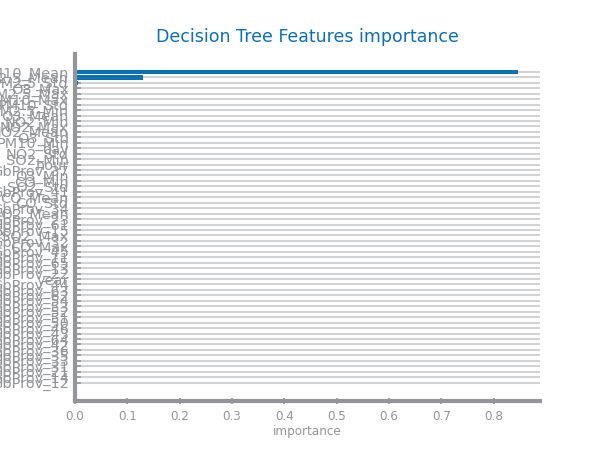
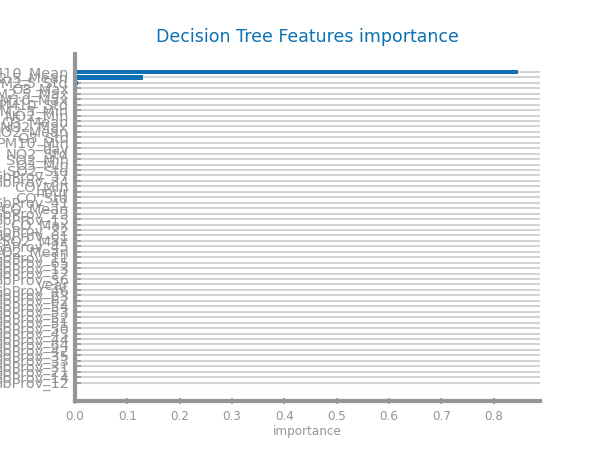
Random forests update

Changed region(s): [[0.0, 0.3422, 0.12, 0.8089], [0.0, 0.2489, 0.09, 0.28]]

diff --git a/lab06_random_forests_and_feature_selection/set1_random_forests.py b/lab06_random_forests_and_feature_selection/set1_random_forests.py
@@ -1,0 +1,79 @@
+from numpy import ndarray
+from pandas import DataFrame, read_csv, unique
+from matplotlib.pyplot import figure, subplots, savefig, show
+from sklearn.ensemble import RandomForestClassifier
+from ds_charts import plot_evaluation_results, multiple_line_chart, horizontal_bar_chart, HEIGHT
+from sklearn.metrics import accuracy_score, precision_score
+
+# change sample in percentage here
+sample = 0.05
+
+file_tag = 'set1'
+filename = 'lab03_knn_and_scaling/ew_data/set1'
+target = 'PERSON_INJURY'
+
+train: DataFrame = read_csv(f'lab04_naive_bayes_and_balancing/ew_data/set1_smote_scaled.csv')
+train = train.sample(frac=sample, replace=True, random_state=1)
+trnY: ndarray = train.pop(target).values
+trnX: ndarray = train.values
+labels = unique(trnY)
+labels.sort()
+
+test: DataFrame = read_csv(f'{filename}_test_scaled.csv')
+tstY: ndarray = test.pop(target).values
+tstX: ndarray = test.values
+
+n_estimators = [5, 10, 25, 50, 75, 100, 150, 200, 250, 300]
+max_depths = [5, 10, 25, 30]
+max_features = [.1, .3, .5, .7, .9, 1]
+best = ('', 0, 0)
+last_best = 0
+best_model = None
+
+cols = len(max_depths)
+figure()
+fig, axs = subplots(1, cols, figsize=(cols*HEIGHT, HEIGHT), squeeze=False)
+for k in range(len(max_depths)):
+    d = max_depths[k]
+    values = {}
+    for f in max_features:
+        yvalues = []
+        for n in n_estimators:
+            rf = RandomForestClassifier(n_estimators=n, max_depth=d, max_features=f)
+            rf.fit(trnX, trnY)
+            prdY = rf.predict(tstX)
+            yvalues.append(accuracy_score(tstY, prdY))
+            if yvalues[-1] > last_best:
+                best = (d, f, n)
+                last_best = yvalues[-1]
+                best_model = rf
+
+        values[f] = yvalues
+    multiple_line_chart(n_estimators, values, ax=axs[0, k], title=f'Random Forests with max_depth={d}',
+                           xlabel='nr estimators', ylabel='accuracy', percentage=True)
+savefig(f'lab06_random_forests_and_feature_selection/images/{file_tag}/{file_tag}_rf_study_accuracy.png')
+show()
+print('Best results with depth=%d, %1.2f features and %d estimators, with accuracy=%1.2f'%(best[0], best[1], best[2], last_best))
+
+
+prd_trn = best_model.predict(trnX)
+prd_tst = best_model.predict(tstX)
+plot_evaluation_results(labels, trnY, prd_trn, tstY, prd_tst)
+savefig(f'lab06_random_forests_and_feature_selection/images/{file_tag}/{file_tag}_rf_best.png')
+show()
+
+from numpy import std, argsort
+
+variables = train.columns
+importances = best_model.feature_importances_
+stdevs = std([tree.feature_importances_ for tree in best_model.estimators_], axis=0)
+indices = argsort(importances)[::-1]
+elems = []
+for f in range(len(variables)):
+    elems += [variables[indices[f]]]
+    print(f'{f+1}. feature {elems[f]} ({importances[indices[f]]})')
+
+figure()
+horizontal_bar_chart(elems, importances[indices], stdevs[indices], title='Random Forest Features importance', xlabel='importance', ylabel='variables')
+savefig(f'lab06_random_forests_and_feature_selection/images/{file_tag}/{file_tag}_rf_ranking.png')
+show()

diff --git a/lab06_random_forests_and_feature_selection/set2_random_forests.py b/lab06_random_forests_and_feature_selection/set2_random_forests.py
@@ -1,0 +1,79 @@
+from numpy import ndarray
+from pandas import DataFrame, read_csv, unique
+from matplotlib.pyplot import figure, subplots, savefig, show
+from sklearn.ensemble import RandomForestClassifier
+from ds_charts import plot_evaluation_results, multiple_line_chart, horizontal_bar_chart, HEIGHT
+from sklearn.metrics import accuracy_score, precision_score
+
+# change sample in percentage here
+sample = 0.05
+
+file_tag = 'set2'
+filename = 'lab03_knn_and_scaling/ew_data/set2'
+target = 'ALARM'
+
+train: DataFrame = read_csv(f'lab04_naive_bayes_and_balancing/ew_data/set2_smote_scaled.csv')
+train = train.sample(frac=sample, replace=True, random_state=1)
+trnY: ndarray = train.pop(target).values
+trnX: ndarray = train.values
+labels = unique(trnY)
+labels.sort()
+
+test: DataFrame = read_csv(f'{filename}_test_scaled.csv')
+tstY: ndarray = test.pop(target).values
+tstX: ndarray = test.values
+
+n_estimators = [5, 10, 25, 50, 75, 100, 150, 200, 250, 300]
+max_depths = [5, 10, 25]
+max_features = [.1, .3, .5, .7, .9, 1]
+best = ('', 0, 0)
+last_best = 0
+best_model = None
+
+cols = len(max_depths)
+figure()
+fig, axs = subplots(1, cols, figsize=(cols*HEIGHT, HEIGHT), squeeze=False)
+for k in range(len(max_depths)):
+    d = max_depths[k]
+    values = {}
+    for f in max_features:
+        yvalues = []
+        for n in n_estimators:
+            rf = RandomForestClassifier(n_estimators=n, max_depth=d, max_features=f)
+            rf.fit(trnX, trnY)
+            prdY = rf.predict(tstX)
+            yvalues.append(accuracy_score(tstY, prdY))
+            if yvalues[-1] > last_best:
+                best = (d, f, n)
+                last_best = yvalues[-1]
+                best_model = rf
+
+        values[f] = yvalues
+    multiple_line_chart(n_estimators, values, ax=axs[0, k], title=f'Random Forests with max_depth={d}',
+                           xlabel='nr estimators', ylabel='accuracy', percentage=True)
+savefig(f'lab06_random_forests_and_feature_selection/images/{file_tag}/{file_tag}_rf_study_accuracy.png')
+show()
+print('Best results with depth=%d, %1.2f features and %d estimators, with accuracy=%1.2f'%(best[0], best[1], best[2], last_best))
+
+
+prd_trn = best_model.predict(trnX)
+prd_tst = best_model.predict(tstX)
+plot_evaluation_results(labels, trnY, prd_trn, tstY, prd_tst)
+savefig(f'lab06_random_forests_and_feature_selection/images/{file_tag}/{file_tag}_rf_best.png')
+show()
+
+from numpy import std, argsort
+
+variables = train.columns
+importances = best_model.feature_importances_
+stdevs = std([tree.feature_importances_ for tree in best_model.estimators_], axis=0)
+indices = argsort(importances)[::-1]
+elems = []
+for f in range(len(variables)):
+    elems += [variables[indices[f]]]
+    print(f'{f+1}. feature {elems[f]} ({importances[indices[f]]})')
+
+figure()
+horizontal_bar_chart(elems, importances[indices], stdevs[indices], title='Random Forest Features importance', xlabel='importance', ylabel='variables')
+savefig(f'lab06_random_forests_and_feature_selection/images/{file_tag}/{file_tag}_rf_ranking.png')
+show()
